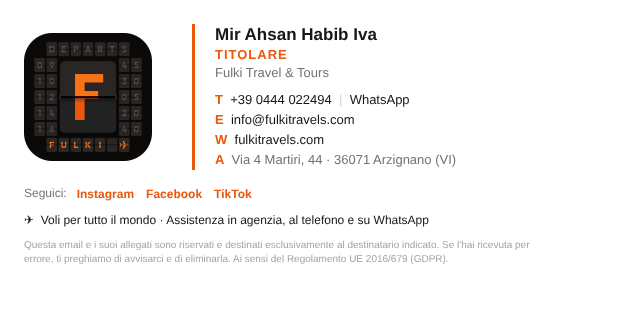
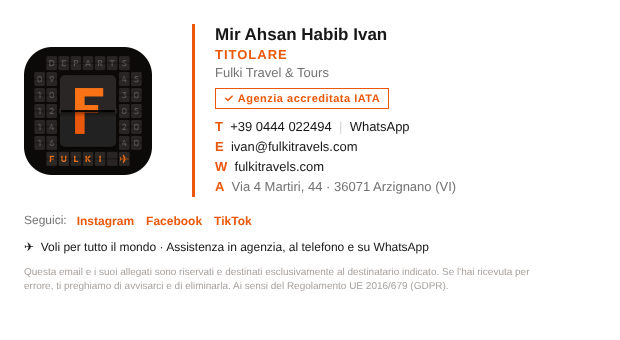
Email signature: correct name to Ivan, use ivan@ address, add IATA badge
Rename files to mir-ahsan-habib-ivan.*, switch the email from info@ to
ivan@fulkitravels.com, and add an 'Agenzia accreditata IATA' badge using the
same wording as the website.

Claude-Session: https://claude.ai/code/session_012i9D2bg1WpjypzUyK7HTz2

Changed region(s): [[0.0306, 0.0625, 0.8581, 0.875], [0.0306, 0.0938, 0.2452, 0.5312]]

diff --git a/assets/email-signature/mir-ahsan-habib-ivan.html b/assets/email-signature/mir-ahsan-habib-ivan.html
@@ -2,9 +2,9 @@
 <html lang="it">
 <head>
 <meta charset="utf-8">
-<title>Firma email · Mir Ahsan Habib Iva</title>
+<title>Firma email · Mir Ahsan Habib Ivan</title>
 <!--
-  Firma email di Fulki Travel — Mir Ahsan Habib Iva, Titolare.
+  Firma email di Fulki Travel — Mir Ahsan Habib Ivan, Titolare.
   Come usarla: apri questo file nel browser, seleziona tutta la firma (dal logo all'ultima riga),
   copia e incolla nelle impostazioni firma di Gmail / Outlook / Apple Mail.
   Logo e icone sono caricati da fulkitravels.com, quindi il sito deve essere online.
@@ -21,9 +21,14 @@
       </a>
     </td>
     <td style="padding:0 0 0 20px;vertical-align:middle;">
-      <div style="font-size:17px;line-height:22px;font-weight:bold;color:#171717;">Mir Ahsan Habib Iva</div>
+      <div style="font-size:17px;line-height:22px;font-weight:bold;color:#171717;">Mir Ahsan Habib Ivan</div>
       <div style="font-size:13px;line-height:18px;font-weight:bold;color:#ea580c;text-transform:uppercase;letter-spacing:1px;">Titolare</div>
-      <div style="font-size:13px;line-height:18px;color:#737373;padding-bottom:8px;">Fulki Travel &amp; Tours</div>
+      <div style="font-size:13px;line-height:18px;color:#737373;padding-bottom:6px;">Fulki Travel &amp; Tours</div>
+      <table cellpadding="0" cellspacing="0" border="0" role="presentation" style="border-collapse:collapse;margin-bottom:8px;">
+        <tr>
+          <td style="border:1px solid #ea580c;border-radius:4px;padding:2px 8px;font-size:11px;line-height:15px;font-weight:bold;color:#ea580c;letter-spacing:0.5px;">&#10003;&nbsp;Agenzia accreditata IATA</td>
+        </tr>
+      </table>
       <div style="font-size:13px;line-height:20px;color:#171717;">
         <span style="color:#ea580c;font-weight:bold;">T</span>&nbsp;
         <a href="tel:+390444022494" style="color:#171717;text-decoration:none;">+39 0444 022494</a>
@@ -32,7 +37,7 @@
       </div>
       <div style="font-size:13px;line-height:20px;color:#171717;">
         <span style="color:#ea580c;font-weight:bold;">E</span>&nbsp;
-        <a href="mailto:info@fulkitravels.com" style="color:#171717;text-decoration:none;">info@fulkitravels.com</a>
+        <a href="mailto:ivan@fulkitravels.com" style="color:#171717;text-decoration:none;">ivan@fulkitravels.com</a>
       </div>
       <div style="font-size:13px;line-height:20px;color:#171717;">
         <span style="color:#ea580c;font-weight:bold;">W</span>&nbsp;
